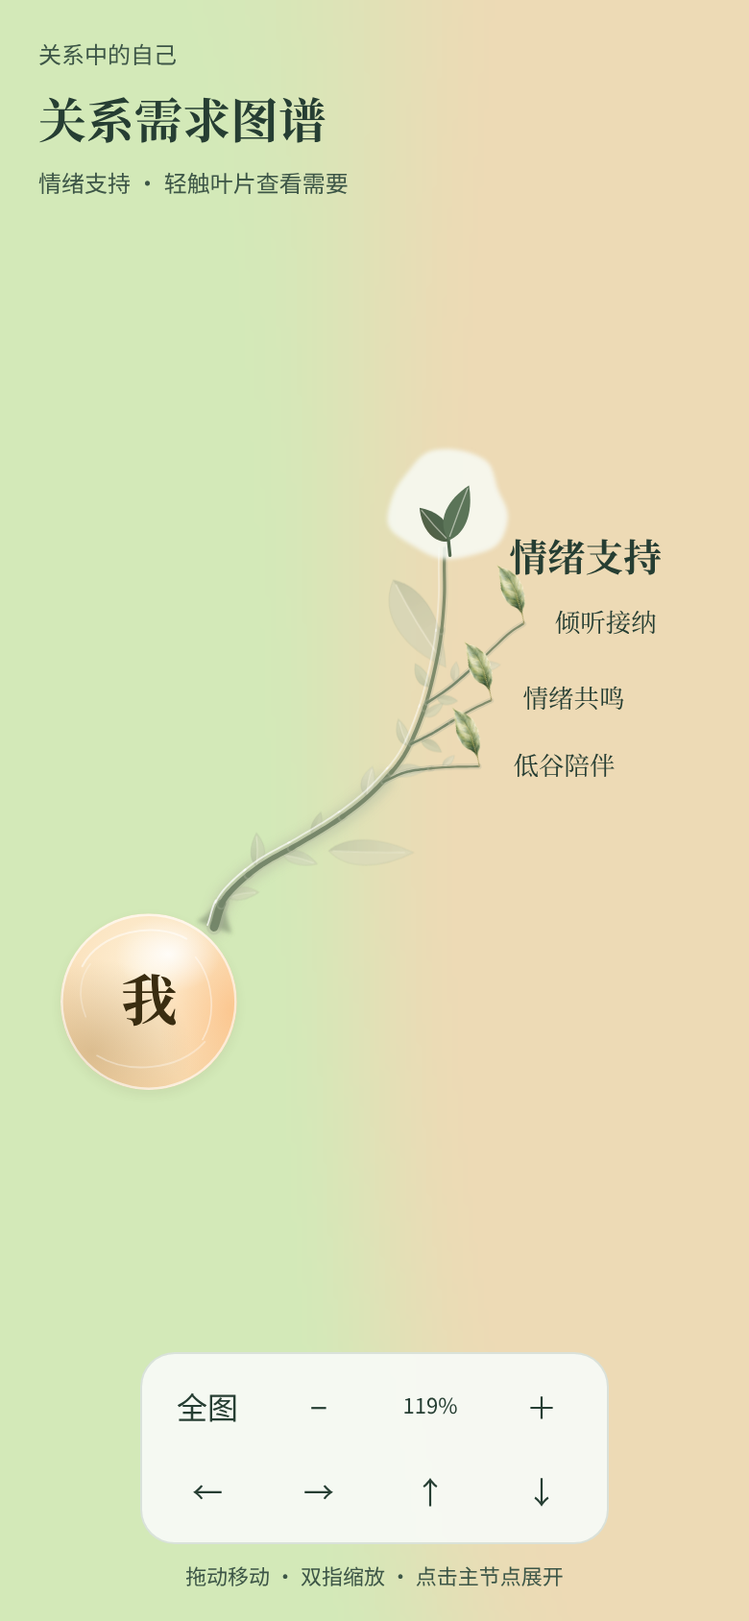
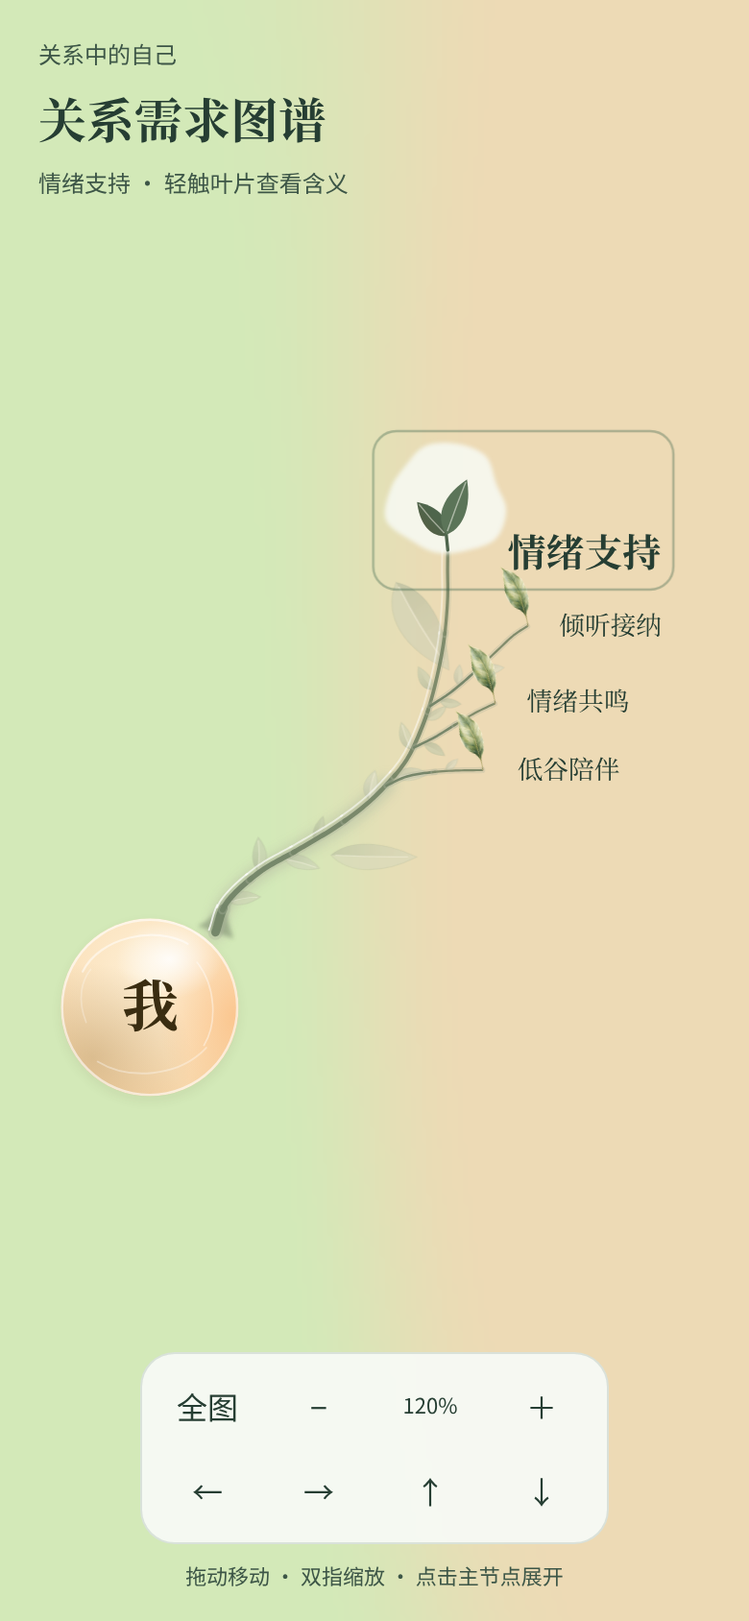
Integrate distinct botanical maps with existing profile workflows

diff --git a/site/prototype/product-surface.js b/site/prototype/product-surface.js
@@ -13,8 +13,18 @@ window.ProductSurface=(()=>{
  const groups=[['traits','人格倾向'],['relationships','关系模式'],['observations','我的观察']];
  const relationshipDimensions=[['D1','金钱资源','金钱与资源怎样安排，让彼此更自在？'],['D2','时间陪伴','相处时间怎样分配，才能兼顾陪伴和各自生活？'],['D3','规划带领与关系秩序','谁来规划、怎样协商，什么安排更适合自己？'],['D4','成长与价值确认','希望怎样支持彼此成长，又怎样感到被认可？'],['D5','情绪支持','需要怎样被理解，自己能怎样回应情绪？'],['D7','风险兜底','遇到困难时，期待怎样共同面对？'],['D8','亲密节奏与承诺','靠近和承诺的节奏，怎样才适合自己？'],['D9','自由与空间','亲近之余，希望保留多少自主与独处？']];
  const facets=[['ability','能做到'],['willingness','愿意投入'],['need','自己需要'],['boundary','边界']];
+ function graphFrame(s,type){return `<iframe class="profile-botanical-map" title="${{traits:'人格倾向图谱',relationships:'关系需求图谱',personal:'本人观察图谱',completion:'认识进度图谱'}[type]}" src="../review/relationship-map/index.html?embedded=1&map=${type}&theme=${encodeURIComponent(s.theme)}${s.reduced?'&still=1':''}" loading="lazy"></iframe>`;}
+ let graphController=null;
+ function bindGraph(C){graphController=C;}
+ window.addEventListener('message',e=>{
+  if(!graphController||e.origin!==location.origin||![...document.querySelectorAll('.profile-botanical-map')].some(f=>f.contentWindow===e.source))return;
+  const m=e.data;if(!m||m.type!=='zhiyu-map-detail'||typeof m.title!=='string'||typeof m.description!=='string')return;
+  const allowed={'factor-detail':D.factors.map(f=>f[0]),'relationship-detail':relationshipDimensions.map(d=>d[0]),'observation-area':areas.map(a=>a[0]),records:[],home:[]};
+  const target=Object.hasOwn(allowed,m.route)&&(allowed[m.route].length===0||allowed[m.route].includes(m.id));
+  graphController.show(m.title.slice(0,80),`<p class="small muted">${esc(String(m.branch||'').slice(0,80))}</p><p class="space-12">${esc(m.description.slice(0,600))}</p><p class="small muted space-16">这里解释节点含义，不代表已经形成你的个人结果。</p>${target?L(m.route==='home'?'查看测评':'查看这个角度',m.route,{cls:'btn full space-24',...(m.id?{'data-id':m.id}:{})}):''}`);
+ });
  function observationMap(s){return `<p class="small muted space-12">从已有经历看线索。未记录的地方可以继续留白。</p><div class="observation-map">${areas.map(([id,name])=>{const count=notes(s).filter(n=>n.observationArea===id).length;return L(`<strong>${name}</strong><span>${count?count+' 条记录':'未记录'}</span>`, 'observation-area',{cls:'observation-area','data-id':id});}).join('')}</div>${L('查看全部观察','records',{cls:'textbtn full space-12','data-filter':'本人记录'})}`;}
- function groupPanel(s,group,result){if(group==='observations')return observationMap(s);if(group==='relationships')return relationshipPanel(s);if(group==='traits')return `${result?radar(result):`<div class="profile-unknown">${icon('explore')}<h3>还没有形成完整画像</h3><p>从一次测评或一条具体经历开始。</p>${L('补充自己的情况','journal',{cls:'btn full space-16',after:'arrow'})}</div>`}<details class="profile-factor-list" ${result?'open':''}><summary>16个因子 ${icon('chevron','sm')}</summary><div class="profile-factor-entries">${D.factors.map(f=>row(f[0]+' · '+f[1],result?.values[f[0]]!=null?`${result.values[f[0]].toFixed(2)} / ${result.scale.max} ${result.scale.unit}`:'还没有读数','factor-detail','bottle','',{'data-id':f[0]})).join('')}</div></details>`;
+ function groupPanel(s,group,result){if(group==='observations')return graphFrame(s,'personal')+observationMap(s);if(group==='relationships')return graphFrame(s,'relationships')+relationshipPanel(s);if(group==='traits')return `${graphFrame(s,'traits')}${result?radar(result):`<div class="profile-unknown">${icon('explore')}<h3>还没有形成完整画像</h3><p>从一次测评或一条具体经历开始。</p>${L('补充自己的情况','journal',{cls:'btn full space-16',after:'arrow'})}</div>`}<details class="profile-factor-list" ${result?'open':''}><summary>16个因子 ${icon('chevron','sm')}</summary><div class="profile-factor-entries">${D.factors.map(f=>row(f[0]+' · '+f[1],result?.values[f[0]]!=null?`${result.values[f[0]].toFixed(2)} / ${result.scale.max} ${result.scale.unit}`:'还没有读数','factor-detail','bottle','',{'data-id':f[0]})).join('')}</div></details>`;
  return '';
  }
  function relationshipPanel(s){return `<div class="profile-unknown"><h3>还没有关系模式的测评结果</h3><p>从具体经历，分别看看能力、投入意愿、需要与边界。</p></div><div class="relationship-dimensions">${relationshipDimensions.map(([id,label])=>{const n=notes(s).filter(x=>x.relationshipDimension===id).length;return row(label,n?n+' 条本人补充':'还没有读数','relationship-detail','link','',{'data-id':id});}).join('')}</div>`;}
@@ -26,7 +36,7 @@ window.ProductSurface=(()=>{
  function observationArea(s,p){const area=areas.find(a=>a[0]===p.id);if(!area)return noResult('没有找到这个观察角度');const own=notes(s).filter(n=>n.observationArea===area[0]);return `${top('我的画像')}<h1 class="info-title">${area[1]}</h1><p class="page-lead">你写下的经历可以继续补充，也可以改变原来的理解。</p>${own.length?own.map(n=>row(n.title,n.text.slice(0,90),'journal','edit','',{'data-id':n.id})).join(''):empty('这个角度还没有记录','从一件具体的事开始，不必急着下结论。')}${L('补充我的情况','journal',{cls:'btn full space-24','data-kind':'observation:'+area[0],icon:'edit'})}`;}
  function profile(s){
   const result=profileResult(),group=groups.some(g=>g[0]===s.profileGroup)?s.profileGroup:'traits',own=notes(s),progress=s.sessions.filter(x=>fixture||x.kind!=='interaction-demo').map(x=>({x,total:Array.isArray(x.questionIds)?x.questionIds.length:fixture&&x.version==='demo-3-v1'?D.questions.length:null})).filter(x=>x.total>0);
-  return `<header class="v3-title"><div><h1>我的画像</h1><p>把倾向、经历与变化放在一起看。</p></div></header><div class="profile-groups" role="group" aria-label="选择画像角度">${groups.map(([id,label])=>B(label,'profile-group',{cls:group===id?'selected':'','data-id':id,'aria-pressed':group===id})).join('')}</div><section class="profile-tendencies"><h2>${groups.find(g=>g[0]===group)[1]}</h2>${groupPanel(s,group,result)}</section><section class="profile-progress"><h2>测评进度</h2>${progress.length?progress.map(({x,total})=>{const count=Object.keys(x.answers||{}).length;return L(`<span><strong>${x.mode==='ai'?'AI 重置版':'16PF 原版'}</strong><small>${count} / ${total} 个回答</small></span><progress max="${total}" value="${count}" aria-label="已保存${count}个回答，共${total}题"></progress>${icon('chevron','sm')}`,x.status==='completed'&&x.resultId?'report':x.status==='completed'?'review':'question',{cls:'profile-progress-row','data-id':x.resultId||x.id});}).join(''):`<p class="small muted space-12">还没有正在进行的测评。</p>${L('查看测评','home',{cls:'textbtn',after:'arrow'})}`}</section>${own.length||group!=='traits'||s.memories.some(m=>m.status==='candidate')?`<section class="profile-clues"><div class="section-head"><h2>关于我的线索</h2>${L('全部记录','records',{cls:'textbtn'})}</div>${own.length?own.slice(0,3).map(n=>row(n.title,n.text.slice(0,70),n.kind==='topic-record'?'topic-workspace':'journal','edit','',{'data-id':n.id,...(n.topicId?{'data-topic':n.topicId}:{})})).join(''):`<p class="small muted">最近哪件事，让你留意到自己的需要或习惯？</p>`}${own.length||group!=='traits'?L('补充我的情况','journal',{cls:'btn secondary full space-16',icon:'plus'}):''}${s.memories.filter(m=>m.status==='candidate').length?row('待确认的内容',s.memories.filter(m=>m.status==='candidate').length+' 条','memories','memory'):''}</section>`:''}<div class="plain-list space-24">${row('与AI一起理解','带着具体经历继续整理','assistant-chat','chat')}${row('以前的对话','找回原来的问题与记录','conversations','clock')}</div>`;
+  return `<header class="v3-title"><div><h1>我的画像</h1><p>把倾向、经历与变化放在一起看。</p></div></header><div class="profile-groups" role="group" aria-label="选择画像角度">${groups.map(([id,label])=>B(label,'profile-group',{cls:group===id?'selected':'','data-id':id,'aria-pressed':group===id})).join('')}</div><section class="profile-tendencies"><h2>${groups.find(g=>g[0]===group)[1]}</h2>${groupPanel(s,group,result)}</section><section class="profile-progress"><h2>测评进度</h2><details class="profile-progress-map"><summary>看看记录与未知</summary>${graphFrame(s,'completion')}</details>${progress.length?progress.map(({x,total})=>{const count=Object.keys(x.answers||{}).length;return L(`<span><strong>${x.mode==='ai'?'AI 重置版':'16PF 原版'}</strong><small>${count} / ${total} 个回答</small></span><progress max="${total}" value="${count}" aria-label="已保存${count}个回答，共${total}题"></progress>${icon('chevron','sm')}`,x.status==='completed'&&x.resultId?'report':x.status==='completed'?'review':'question',{cls:'profile-progress-row','data-id':x.resultId||x.id});}).join(''):`<p class="small muted space-12">还没有正在进行的测评。</p>${L('查看测评','home',{cls:'textbtn',after:'arrow'})}`}</section>${own.length||group!=='traits'||s.memories.some(m=>m.status==='candidate')?`<section class="profile-clues"><div class="section-head"><h2>关于我的线索</h2>${L('全部记录','records',{cls:'textbtn'})}</div>${own.length?own.slice(0,3).map(n=>row(n.title,n.text.slice(0,70),n.kind==='topic-record'?'topic-workspace':'journal','edit','',{'data-id':n.id,...(n.topicId?{'data-topic':n.topicId}:{})})).join(''):`<p class="small muted">最近哪件事，让你留意到自己的需要或习惯？</p>`}${own.length||group!=='traits'?L('补充我的情况','journal',{cls:'btn secondary full space-16',icon:'plus'}):''}${s.memories.filter(m=>m.status==='candidate').length?row('待确认的内容',s.memories.filter(m=>m.status==='candidate').length+' 条','memories','memory'):''}</section>`:''}<div class="plain-list space-24">${row('与AI一起理解','带着具体经历继续整理','assistant-chat','chat')}${row('以前的对话','找回原来的问题与记录','conversations','clock')}</div>`;
  }
  function factor(s,p){const f=D.factors.find(x=>x[0]===p.id);if(!f)return noResult('没有找到这个因子');const result=profileResult(),value=result?.values[f[0]],own=notes(s).filter(n=>n.factorId===f[0]);return `${top('我的画像')}<span class="overline">${f[0]} · ${f[1]}</span><h1 class="info-title">${f[1]}</h1><p class="page-lead">${esc(f[4])}</p><section class="card space-24"><h2>${result?.source.kind==='layout-fixture'?'布局示意':'我的倾向'}</h2><p class="space-12">${value==null?'还没有这个角度的读数。':esc(value.toFixed(2)+' / '+result.scale.max+' '+result.scale.unit)}</p>${value==null?'':`<dl class="order-facts"><dt>来源</dt><dd>${esc(result.source.label)}</dd><dt>说明</dt><dd>${esc(result.source.description)}</dd></dl>`}</section><section class="space-24"><h2>可用依据</h2><p class="small muted space-12">${own.length?'有 '+own.length+' 条本人补充，可以回看当时的情境。':'还没有关联的经历。想一想，这个角度在不同场合是否相同？'}</p>${own.map(n=>row(n.title,n.text.slice(0,70),'journal','edit','',{'data-id':n.id})).join('')}</section>${L('补充我的情况','journal',{cls:'btn full space-24','data-kind':'factor:'+f[0],icon:'edit'})}${L('请AI帮我理解','assistant-chat',{cls:'btn secondary full space-12','data-kind':'factor:'+f[0],icon:'chat'})}`;}
  function chat(s,p){
@@ -73,5 +83,5 @@ window.ProductSurface=(()=>{
   if(!fixture&&['source-report','quote-report','save-report-note'].includes(action)){C.nav('report');return true;}
   return false;
  }
- return {dispatch,profileResult,areas,groups,relationshipDimensions,facets};
+ return {dispatch,profileResult,areas,groups,relationshipDimensions,facets,bindGraph};
 })();

diff --git a/site/review/relationship-map/models.js b/site/review/relationship-map/models.js
@@ -1,0 +1,48 @@
+/* Read-only graph content. Every layout keeps its own hand-authored curves. */
+window.MapModel=(()=>{
+ const type=new URLSearchParams(location.search).get('map')||'relationships';
+ const titles={relationships:'关系需求图谱',traits:'人格倾向',personal:'我的观察',completion:'认识的进度'};
+ const areas=[['behavior','性格与行为'],['decisions','思考与选择'],['values','在意的事'],['assumptions','待检验的想法'],['emotions','情感与需要'],['family','家庭与边界'],['communication','沟通与互动'],['strengths','优势与代价']];
+ const clone=b=>JSON.parse(JSON.stringify(b));
+ function replace(b,name,items,curves){b.name=name;b.items=items;b.vines=curves;b.buds=[];b.juncs=[];b.iconPath=0;return b;}
+ const item=(id,t,sub,x,y)=>({id,t,sub,b:[x,y],x:[x+16,x+88],cy:y,kind:'explanation'});
+ const path=(pts,i,parent=0)=>({pts,item:i,parent,w:[1.15,.65]});
+ function configure(rows){
+  if(type==='traits'){
+   // Letter ranges index the maintained factors, not invented higher-order dimensions.
+   const designs=[
+    {base:'risk',name:'A — E',leaves:[[190,70],[214,110],[236,150],[250,195]],curves:[[[110,107],[136,85],[168,65],[190,70]],[[137,160],[162,142],[190,122],[214,110]],[[173,183],[190,171],[217,157],[236,150]],[[220,195],[233,192],[243,192],[250,195]]]},
+    {base:'emo',name:'F — I',leaves:[[459,105],[454,145],[462,184],[449,222]],curves:[[[425,122],[437,117],[448,108],[459,105]],[[418,153],[431,147],[444,144],[454,145]],[[401,183],[421,185],[443,185],[462,184]],[[361,213],[387,211],[419,216],[449,222]]]},
+    {base:'promise',name:'L — O',leaves:[[437,375],[470,411],[493,451],[508,493]],curves:[[[368,358],[391,360],[416,369],[437,375]],[[410,390],[432,395],[451,403],[470,411]],[[427,433],[448,444],[472,449],[493,451]],[[448,463],[468,482],[489,492],[508,493]]]},
+    {base:'grow',name:'Q1 — Q4',leaves:[[96,407],[112,451],[145,487],[192,516]],curves:[[[92,399],[93,403],[96,407]],[[97,463],[101,451],[112,451]],[[137,501],[140,491],[145,487]],[[197,496],[200,507],[192,516]]]}
+   ];
+   return designs.map((d,g)=>{const b=clone(rows.find(b=>b.id===d.base));b.id='factors-'+g;b.anchorRatio=g===2?.43:1;const main={...b.vines[0],item:undefined,deco:true};return replace(b,d.name,D.factors.slice(g*4,g*4+4).map((f,i)=>({...item(f[0],f[0]+' '+f[1],f[4]+'。目前没有这个因子的有效读数。',...d.leaves[i]),route:'factor-detail',routeId:f[0],kind:'factor'})),[main,...d.curves.map((c,i)=>path(c,i))]);});
+  }
+  if(type==='personal'){
+   // Eight observation areas on two uneven, hand-laid climbing stems. No psychological score.
+   const designs=[
+    {base:'risk',name:'经历与选择',main:[[281,252],[260,230],[249,192],[248,156],[237,124],[215,105],[188,99],[166,105]],leaves:[[130,175],[170,220],[215,259]],curves:[[[177.832838,100.862804],[160,127],[145,152],[130,175]],[[248,156],[219,167],[190,193],[170,220]],[[260,230],[243,237],[226,250],[215,259]]],ids:[0,1,2]},
+    {base:'emo',name:'感受与相处',main:[[327,271],[355,251],[370,222],[379,186],[400,151],[430,130],[454,122]],leaves:[[461,159],[451,204],[436,248]],curves:[[[430,130],[445,138],[455,149],[461,159]],[[379,186],[405,189],[433,197],[451,204]],[[355,251],[382,243],[409,243],[436,248]]],ids:[4,5,6]},
+    {base:'grow',name:'继续理解',main:[[282,316],[276,350],[281,387],[269,426],[243,455],[209,474],[172,480]],leaves:[[181,440],[255,489]],curves:[[[243,455],[225,440],[204,434],[181,440]],[[209,474],[226,485],[243,490],[255,489]]],ids:[3,7]}
+   ];
+   return designs.map(d=>{const b=clone(rows.find(b=>b.id===d.base));b.id=d.name;b.anchorRatio=1;return replace(b,d.name,d.ids.map((a,i)=>({...item(areas[a][0],areas[a][1],'从具体经历看这个角度。没有记录时保持留白，不替你下结论。',...d.leaves[i]),route:'observation-area',routeId:areas[a][0],kind:'observation'})),[{pts:d.main,w:[2.5,1.1],deco:true},...d.curves.map((c,i)=>path(c,i))]);});
+  }
+  if(type==='completion'){
+   const a=clone(rows.find(b=>b.id==='time')),b=clone(rows.find(b=>b.id==='grow')),c=clone(rows.find(b=>b.id==='free'));
+   a.id='answers';b.id='observations';c.id='review';a.anchorRatio=b.anchorRatio=c.anchorRatio=1;
+   replace(a,'作答',[
+    {...item('answers','已保存的回答','作答进度只按真实已保存的回答统计，不代表人格特征。',329,101),route:'home'},
+    {...item('unanswered','尚未回答','未作答的题目保持未知；不以零分填补。',353,150),route:'home'}
+   ],[{pts:[[297,243],[292,218],[298,186],[300,153],[290,121],[270,97],[251,85]],w:[2.6,1],deco:true},path([[300,153],[311,134],[319,113],[329,101]],0),path([[298,186],[318,174],[339,160],[353,150]],1)]);
+   replace(b,'本人观察',[{...item('notes','具体经历','观察记录属于本人补充，不自动变成测量读数。',155,450),route:'records'}],[{pts:[[264,300],[233,310],[201,331],[182,364],[182,394],[195,420]],w:[2.4,1],deco:true},path([[182,394],[168,410],[157,431],[155,450]],0)]);
+   replace(c,'回看与修正',[{...item('review','已有结果','只有具备明确测量依据的有效结果才进入画像；未知不填零。',452,360),route:'records'},{...item('changes','改变理解','回看不同情境中的经历，允许保留不同认识。',428,414),route:'records'}],[{pts:[[328,307],[350,325],[373,350],[381,378],[384,407],[399,432]],w:[2.5,1],deco:true},path([[350,325],[389,333],[423,351],[452,360]],0),path([[381,378],[397,393],[413,407],[428,414]],1)]);
+   return [a,b,c];
+  }
+  return rows;
+ }
+ function topology(art){
+  // Parent identity is explicit after geometry resolution. It never comes from a visual score.
+  return art.branches.map(b=>({id:b.id,kind:'fixed',coexistence:'independent',paths:b.paths.map(p=>({id:b.id+':p'+p.vi,parent:p.parent?b.id+':p'+p.parent.vi:b.id,clickable:false})),terminals:b.items.map(it=>({id:it.id,parent:b.id+':p'+it.path.vi,meaning:it.t,kind:it.kind||'fixed',clickable:true}))}));
+ }
+ return {type:Object.hasOwn(titles,type)?type:'relationships',title:titles[type]||titles.relationships,configure,topology};
+})();

diff --git a/site/review/relationship-map/camera.js b/site/review/relationship-map/camera.js
@@ -3,13 +3,16 @@
 const art=window.RelationshipArt,viewport=document.querySelector('#viewport'),stage=document.querySelector('#stage');
 viewport.append(stage);document.querySelector('.app').remove();
 const dialog=document.querySelector('#leaf-detail'),caption=document.querySelector('#map-caption');
+document.querySelector('.map-header h1').textContent=MapModel.title;document.querySelector('.map-header>p').textContent=MapModel.type==='relationships'?'关系中的自己':MapModel.type==='traits'?'不同情境中的倾向':MapModel.type==='personal'?'从经历里看见自己':'记录与未知分开看';document.title='知遇测评 · '+MapModel.title;
+const embedded=new URLSearchParams(location.search).has('embedded');document.body.classList.toggle('embedded',embedded);
 const originalState=JSON.stringify(art.branches.map(b=>b.items.map(it=>it.lit)));
 let current=null,cam={x:0,y:0,k:1},moved=false,returnFocus=null,frame=0,drawCount=0;
 const pointer=new Map();
+const topology=MapModel.topology(art);
 // Attach each original title/icon group to its own curved stem, not a floating label.
 for(const b of art.branches){
- const p=b.paths[0],anchor=art.at(p.poly,b.id==='plan'?p.total*.48:b.id==='promise'?p.total*.43:p.total);
- const base=[b.box[0]+18,b.box[1]+32];b.headOffset=[anchor[0]-base[0],anchor[1]-base[1]];
+ const p=b.paths[0],anchor=art.at(p.poly,b.anchorRatio!=null?p.total*b.anchorRatio:b.id==='plan'?p.total*.48:b.id==='promise'?p.total*.43:p.total);
+ const base=({sproutT:[261.9,49.3],emo:[426.9,84.2],sun:[505.5,233.7],heart:[454.55,383.6],mount:[290.2,459.8],sproutG:[96.75,394.6],coins:[65.8,214.7],shield:[141.6,74.9]})[b.icon];b.headOffset=[anchor[0]-base[0],anchor[1]-base[1]];
  b.head.setAttribute('transform',`translate(${b.headOffset.join(' ')})`);
 }
 
@@ -35,7 +38,7 @@ function layers(){
  for(const p of art.paths.filter(p=>p.stem))for(const s of p.gSet)visible(s.e,false);
  for(const [i,leaf] of art.leaves.entries()){const decorative=leaf.host?.main&&leaf.dist>60&&i%2===0;visible(leaf.pop.parentNode,current?leaf.host?.b?.id===current:decorative);leaf.pop.parentNode.style.opacity=current?'1':'.65';}
  document.querySelector('#gPetals').style.display='none';
- caption.textContent=current?art.branches.find(b=>b.id===current).name+' · 轻触叶片查看需要':'从一条枝蔓，看看关系中在意的需要';
+ caption.textContent=current?art.branches.find(b=>b.id===current).name+' · 轻触叶片查看含义':MapModel.type==='relationships'?'从一条枝蔓，看看关系中在意的需要':'点击主节点，从一个角度慢慢了解自己';
 }
 function overview(){current=null;layers();fit({x:25,y:5,w:545,h:553});}
 function focusBranch(id){
@@ -45,7 +48,9 @@ function focusBranch(id){
  const x=Math.min(...xs)-12,y=Math.min(...ys)-15;fit({x,y,w:Math.max(...xs)-x+12,h:Math.max(...ys)-y+15});
 }
 function openDetail(id,index){if(current!==id)return;const b=art.branches.find(b=>b.id===id),it=b?.items[index];if(!it)return;
- returnFocus=it.hit;document.querySelector('#detail-branch').textContent=b.name;document.querySelector('#detail-title').textContent=it.t;document.querySelector('#detail-copy').textContent=it.sub;dialog.showModal();document.querySelector('#close-detail').focus();}
+ returnFocus=it.hit;
+ if(embedded){parent.postMessage({type:'zhiyu-map-detail',title:it.t,description:it.sub,branch:b.name,route:it.route||(b.dimensionId?'relationship-detail':null),id:it.routeId||b.dimensionId||null},location.origin);return;}
+ document.querySelector('#detail-branch').textContent=b.name;document.querySelector('#detail-title').textContent=it.t;document.querySelector('#detail-copy').textContent=it.sub;dialog.showModal();document.querySelector('#close-detail').focus();}
 // Cutout leaf silhouettes replace terminal dots only; original branch art stays SVG.
 for(const b of art.branches)for(const it of b.items){
  it.bul.style.display='none';const img=document.createElementNS('http://www.w3.org/2000/svg','image');
@@ -74,6 +79,6 @@ function release(e){pointer.delete(e.pointerId);if(!pointer.size){viewport.class
 viewport.addEventListener('pointerup',release);viewport.addEventListener('pointercancel',release);
 viewport.addEventListener('click',e=>{if(moved){e.preventDefault();e.stopImmediatePropagation();}},{capture:true});
 addEventListener('resize',()=>current?focusBranch(current):overview());
-window.MapCamera={overview,focusBranch,openDetail,state:()=>({current,...cam,drawCount,originalState,liveState:JSON.stringify(art.branches.map(b=>b.items.map(it=>it.lit)))})};
-Ambient.setContext({quiet:false,reduced:new URLSearchParams(location.search).has('still')});overview();
+window.MapCamera={overview,focusBranch,openDetail,topology,state:()=>({current,...cam,drawCount,originalState,liveState:JSON.stringify(art.branches.map(b=>b.items.map(it=>it.lit)))})};
+Ambient.setContext({quiet:embedded,reduced:new URLSearchParams(location.search).has('still')});overview();
 })();

diff --git a/site/review/relationship-map/index.html b/site/review/relationship-map/index.html
@@ -229,6 +229,7 @@ text{text-rendering:geometricPrecision}
   <section class="panel" hidden><div class="card" id="card"><div class="pv" id="pv"></div></div></section>
 </div>
 
+<script src="../../prototype/data.js"></script><script src="models.js"></script>
 <script>
 (() => {
 'use strict';
@@ -244,7 +245,7 @@ const STILL = true; // Candidate geometry is static; only the shared ambient fie
  *   item: 藤蔓末端连接的条目序号；deco: 分支点亮时一并点亮
  *   vc: [主藤色, 分支色, 柔边宽度]（取自原图各分支藤蔓颜色）
  * ==================================================================== */
-const BRANCHES = [
+let BRANCHES = [
   { id:'time', name:'时间陪伴', desc:'在一起的时间，重在用心而不在多少。', icon:'sproutT', vc:['#5d7259','#5e7057',1.6],
     title:[278,343,48.5], blob:[263.5,34,27,21,-6,3], box:[249.5,13,36,36],
     items:[
@@ -486,11 +487,13 @@ plan.vines.push(
 // Remove two pre-existing overshoot crossings at their true attachment points.
 BRANCHES.find(b=>b.id==='grow').vines[2].pts=[[118.792734,492.103917],[112.5,478],[110,467],[109.8,457.3]];
 BRANCHES.find(b=>b.id==='risk').vines[3].pts=[[181.021899,186.015096],[176,179],[173.5,173],[173,167.8]];
+BRANCHES=MapModel.configure(BRANCHES);
+BRANCHES.forEach(b=>{if(['free','money','risk','factors-1','factors-2','factors-3'].includes(b.id))b.title[2]=b.box[1]-12;});
 const dimensionIds = {money:'D1',time:'D2',plan:'D3',grow:'D4',emo:'D5',risk:'D7',promise:'D8',free:'D9'};
 BRANCHES.forEach(b=>{
  b.dimensionId=dimensionIds[b.id];
  b.vines.forEach((v,i)=>{v.id=`${b.id}:path:${i}`;});
- b.items.forEach((it,i)=>{it.id=`${b.id}:leaf:${i}`;it.kind='need';});
+ b.items.forEach((it,i)=>{it.id=`${b.id}:leaf:${it.id||i}`;it.kind=it.kind||'need';});
 });
 
 /* ====================================================================== 图标 */
@@ -784,13 +787,13 @@ BRANCHES.forEach(b => {
   const x0 = Math.min(b.title[0] - 6, bx - brx), x1 = Math.max(b.title[1] + 6, bx + brx), y0 = by - bry, y1 = b.title[2] + 12;
   const r = el('rect', { class: 'hit', x: f2(x0), y: f2(y0), width: f2(x1 - x0), height: f2(y1 - y0), rx: 10, role: 'button', tabindex: 0, 'aria-label': `${b.name}：点亮或熄灭` }, hits);
   b.hit=r; r.dataset.branch=b.id; r.dataset.kind='branch'; r.setAttribute('aria-label',b.name+'：查看分支');
-  bindTap(r, () => onBranchTap(b), b.head);
+  bindTap(r, () => onBranchTap(b), null);
 });
 BRANCHES.forEach(b => b.items.forEach((it, i) => {
   const x0 = it.b[0] - 9, x1 = it.x[1] + 6;
   const r = el('rect', { class: 'hit', x: f2(x0), y: f2(it.cy - 12), width: f2(x1 - x0), height: 24, rx: 8, role: 'button', tabindex: 0, 'aria-label': `${it.t}：点亮或熄灭` }, hits);
   it.hit=r; r.dataset.branch=b.id; r.dataset.kind='leaf'; r.setAttribute('aria-label',it.t+'：查看详情');
-  bindTap(r, () => onItemTap(b, i), it.g);
+  bindTap(r, () => onItemTap(b, i), null);
 }));
 function bindTap(node, fn, visual) {
   node.addEventListener('pointerdown', () => visual && visual.classList.add('press'));
@@ -811,7 +814,7 @@ function ink(str, weight) {
 const median = a => { const s = [...a].sort((x, y) => x - y); return s[s.length >> 1]; };
 function layoutText() {
   const T = BRANCHES.map(b => ({ b, m: ink(b.name, 700) }));
-  const tfs = median(T.map(({ b, m }) => (b.title[1] + 1 - b.title[0]) / (m.r - m.l) * 100));
+  const tfs = Math.min(17,median(T.map(({ b, m }) => (b.title[1] + 1 - b.title[0]) / (m.r - m.l) * 100)));
   T.forEach(({ b, m }) => {
     const k = tfs / 100, cx = (b.title[0] + b.title[1] + 1) / 2, cy = b.title[2] + .5;
     b.titleEl.setAttribute('font-size', f2(tfs));
@@ -819,7 +822,7 @@ function layoutText() {
     b.titleEl.setAttribute('y', f2(cy + (m.a - m.d) / 2 * k));
   });
   const I = BRANCHES.flatMap(b => b.items.map(it => ({ it, m: ink(it.t, 500) })));
-  const ifs = median(I.map(({ it, m }) => (it.x[1] + 1 - it.x[0]) / (m.r - m.l) * 100));
+  const ifs = Math.min(11.5,median(I.map(({ it, m }) => (it.x[1] + 1 - it.x[0]) / (m.r - m.l) * 100)));
   I.forEach(({ it, m }) => {
     const k = ifs / 100;
     it.tx.setAttribute('font-size', f2(ifs));

diff --git a/site/review/relationship-map/preview.html b/site/review/relationship-map/preview.html
@@ -1,8 +1,8 @@
 <!doctype html>
 <html lang="zh-CN"><meta charset="utf-8"><meta name="viewport" content="width=device-width,initial-scale=1"><title>知遇测评 · 关系图谱预览</title>
 <style>body{margin:0;background:#f5f2ec;color:#302d27;font:16px/1.7 system-ui,sans-serif}main{max-width:1280px;margin:auto;padding:28px}h1{font-size:26px;margin:0}p{max-width:720px}a{color:#365c48;text-underline-offset:4px}a:focus-visible{outline:2px solid;outline-offset:4px}.gallery{display:grid;grid-template-columns:repeat(3,minmax(0,1fr));gap:24px}figure{margin:0}figcaption{margin:12px 0;font-weight:600}img{display:block;width:100%;height:auto;border-radius:16px}@media(max-width:700px){main{padding:20px}.gallery{grid-template-columns:1fr}figure{max-width:390px}}</style>
-<main><h1>关系需求图谱</h1><p>第一张独立构图候选。下方为390px浏览器实测截图，内容为内部样例，尚未接入真实画像资料。</p><p><a href="index.html">打开可操作图谱</a> · <a href="index.html?theme=nebula">查看深色主题</a></p><div class="gallery">
+<main><h1>关系需求图谱</h1><p>图谱已接入“我的画像”。下方为390px浏览器实测截图；节点说明与真实测量结果分开，浏览不改变资料。</p><p><a href="index.html">打开可操作图谱</a> · <a href="index.html?theme=nebula">查看深色主题</a></p><div class="gallery">
 <figure><figcaption>全览：我、主节点与主干</figcaption><img src="previews/overview.png" alt="关系需求图谱全览，下级叶片隐藏" width="780" height="1688"></figure>
 <figure><figcaption>聚焦：展开一条关系分支</figcaption><img src="previews/focus.png" alt="情绪支持分支聚焦，展示三片需要叶片" width="780" height="1688"></figure>
 <figure><figcaption>详情：关闭后保留视角</figcaption><img src="previews/detail.png" alt="倾听接纳需要详情，标注为样例并提供关闭按钮" width="780" height="1688"></figure></div>
-<p>本候选先检验自然枝条与画布交互。不等深度、A/B语义及其他画像构图仍在后续实现范围中。</p></main></html>
+<p>结构支持单末端、多分叉、不等深度与两端并存；不会据此推断心理含义或分数。人格图的字母区间仅用于查找16因子，不是新的心理维度。</p><h2>其他画像角度</h2><div class="gallery"><figure><figcaption><a href="index.html?map=traits">人格倾向</a></figcaption><img src="previews/traits.png" alt="人格倾向四组索引的独立曲线构图" width="780" height="1688"></figure><figure><figcaption><a href="index.html?map=personal">我的观察</a></figcaption><img src="previews/personal.png" alt="观察领域的三枝不对称构图" width="780" height="1688"></figure><figure><figcaption><a href="index.html?map=completion">认识的进度</a></figcaption><img src="previews/completion.png" alt="作答、观察和回看的独立构图" width="780" height="1688"></figure></div><p><a href="../../prototype/index.html#assistant">打开我的画像</a> · <a href="previews/app-relationships.png">查看正式页面实测长图</a> · <a href="previews/app-detail.png">查看共享详情弹层</a></p></main></html>

diff --git a/site/prototype/product.css b/site/prototype/product.css
@@ -273,3 +273,7 @@ body[data-route=explore] .v3-title{margin-bottom:12px}
 .decision-description{font-size:.8125rem;line-height:1.7;color:var(--muted)}
 .decision-card .decision-arrow{align-self:center}
 @media(max-width:359px){.decision-grid .decision-card{grid-template-columns:24px minmax(0,1fr) 12px;padding:16px 13px;gap:9px}.decision-card .decision-symbol .icon{width:23px;height:23px}.decision-title{font-size:.9375rem}.explore-intro{font-size:.875rem}.assessment-purpose{min-height:7.2em}}
+
+/* A transparent botanical world shares the page's persistent background. */
+.profile-botanical-map{display:block;width:calc(100% + 24px);margin:0 -12px 18px;height:580px;border:0;background:transparent;border-radius:20px}.profile-progress-map{margin-top:14px}.profile-progress-map>summary{padding:12px 0;cursor:pointer;font-size:14px}.profile-progress-map>summary:focus-visible{outline:2px solid var(--primary);outline-offset:3px}@media(max-width:359px){.profile-botanical-map{height:540px}}
+.profile-tendencies:has(.profile-botanical-map){background:transparent;border:0;padding:0}.profile-tendencies>.profile-unknown,.profile-tendencies>.relationship-dimensions,.profile-tendencies>.profile-factor-list{background:var(--paper);padding:20px;border-radius:22px}.profile-botanical-map{width:calc(100% + 36px);margin-inline:-18px}

diff --git a/site/prototype/app.js b/site/prototype/app.js
@@ -197,6 +197,7 @@ window.App=(()=>{
  // Read-only debugging interface enables deterministic, shipped regression tests.
  
  V4.bind({get state(){return state;},current,commit,nav,show,confirm,close,repaint,toast,download,dispatch,get blocked(){return !!(api.externalChange||api.pendingAnswer||api.unsavedDraft||V2.hasUnsaved);},get storageKey(){return KEY;},replaceState(next){if(persist(next)){state=next;V2.reset();V3.reset();render();return true;}return false;}});
+ ProductSurface.bindGraph({show,nav});
  V3.bind({get state(){return state;},current,commit,nav,show,repaint,toast});
  V2.bind({get state(){return state;},current,commit,nav,show,confirm,form,repaint,toast,close,download,addSource,status:renderStorageStatus,reset(){cancelAll();state=D.defaultState();api.pendingAnswer=null;api.formDrafts={};api.unsavedDraft=false;V2.reset();V3.reset();}});
  Object.defineProperties(api,{snapshot:{get:()=>clone(serial(state))},storageKey:{get:()=>KEY},currentRoute:{get:()=>current()}});

diff --git a/site/review/relationship-map/camera.css b/site/review/relationship-map/camera.css
@@ -26,3 +26,6 @@ body[data-theme-mode=dark] #gGreen path{stroke:color-mix(in srgb,var(--ink) 65%,
 body[data-theme-mode=dark] #gPetals{opacity:.12!important}
 .stage[data-mode=overview] .t-title{font-size:20px}
 #gPetals{display:none!important}.orb-body{box-shadow:inset 0 0 0 1.1em #fff9,0 2em 5em #503d2314}.orb-shine{display:none}
+
+body.embedded{background:transparent!important}.embedded #ambient-background,.embedded .map-header{display:none}.embedded .viewport{top:0;bottom:120px}.embedded .camera-tools{bottom:27px}.embedded .map-help{bottom:2px;font-size:10px}.embedded .camera-tools{background:color-mix(in srgb,var(--paper) 88%,transparent)}
+#hits .hit:active{fill:color-mix(in srgb,var(--primary) 10%,transparent)}

diff --git a/site/DESIGN.md b/site/DESIGN.md
@@ -197,3 +197,13 @@ DecisionScenes.search拥有目录匹配：NFKC、trim、统一连续空白和小
 AI版本说明已依据现有候选题库核对：保留16因子，AI辅助改写题目及选项，采用更具体的生活情境和本人行为描述。原有默认不可开始状态不由本轮新增；候选题库仍未启用生产，不表示更高效度或实时AI。具体来源坐标仅记录于当前开发契约，不复制源题目。
 
 页面滚动定位使用 auto：路由恢复、焦点和嵌入缩放预览的控件定位必须即时完成，避免全局 smooth 滚动在指针按下前移动命中目标。背景及装饰动效不受此规则影响。回归见 tools/workbench_pointer_review.py。
+
+## 2026-10-04 画像植物图谱
+
+我的画像沿用人格倾向、关系模式、我的观察三组与真实测评进度。图谱使用各自手绘曲线构图，不以同一规则放射布局套用所有图。全览显示主节点、主干及低强调非交互装饰，末级业务叶片与热点仅在聚焦后出现。主图标按自身SVG连接点锚定枝干，透明叶片以实际叶柄端点为旋转锚。
+
+独立图谱的世界坐标、相机与只读语义由review/relationship-map的models.js、camera.js拥有；正式页面由ProductSurface嵌入，同源且来源窗口校验后复用app.js弹层。嵌入文档背景透明，内部Ambient暂停，父页面持续背景不重建。主题仍由themes-v4.json生成，前台不增加主题工具栏。
+
+浏览只解释节点，未有记录/测量数据时不冒充个人结果；不点亮资料、不写观察或分数。原16因子、8个关系维度、8个观察领域及真实作答进度入口保留。能力、意愿、需要、边界仍在原关系详情中独立承载。两端可并存、单支、多分叉和固定含义是结构能力，不自动推断A/B心理含义或互斥选择规则。
+
+键盘、按钮、滚轮与双指均可控制相机；关闭详情保留视角。中间路径不是按钮。图谱本身无持续动画循环；正式减少动态设置及系统偏好继续适用。原始上传文件与内部分析材料不属于部署内容。

diff --git a/site/UX-CONTRACT.md b/site/UX-CONTRACT.md
@@ -196,3 +196,13 @@ DecisionScenes.search拥有目录匹配：NFKC、trim、统一连续空白和小
 AI版本说明已依据现有候选题库核对：保留16因子，AI辅助改写题目及选项，采用更具体的生活情境和本人行为描述。原有默认不可开始状态不由本轮新增；候选题库仍未启用生产，不表示更高效度或实时AI。具体来源坐标仅记录于当前开发契约，不复制源题目。
 
 页面滚动定位使用 auto：路由恢复、焦点和嵌入缩放预览的控件定位必须即时完成，避免全局 smooth 滚动在指针按下前移动命中目标。背景及装饰动效不受此规则影响。回归见 tools/workbench_pointer_review.py。
+
+## 2026-10-04 画像植物图谱
+
+我的画像沿用人格倾向、关系模式、我的观察三组与真实测评进度。图谱使用各自手绘曲线构图，不以同一规则放射布局套用所有图。全览显示主节点、主干及低强调非交互装饰，末级业务叶片与热点仅在聚焦后出现。主图标按自身SVG连接点锚定枝干，透明叶片以实际叶柄端点为旋转锚。
+
+独立图谱的世界坐标、相机与只读语义由review/relationship-map的models.js、camera.js拥有；正式页面由ProductSurface嵌入，同源且来源窗口校验后复用app.js弹层。嵌入文档背景透明，内部Ambient暂停，父页面持续背景不重建。主题仍由themes-v4.json生成，前台不增加主题工具栏。
+
+浏览只解释节点，未有记录/测量数据时不冒充个人结果；不点亮资料、不写观察或分数。原16因子、8个关系维度、8个观察领域及真实作答进度入口保留。能力、意愿、需要、边界仍在原关系详情中独立承载。两端可并存、单支、多分叉和固定含义是结构能力，不自动推断A/B心理含义或互斥选择规则。
+
+键盘、按钮、滚轮与双指均可控制相机；关闭详情保留视角。中间路径不是按钮。图谱本身无持续动画循环；正式减少动态设置及系统偏好继续适用。原始上传文件与内部分析材料不属于部署内容。
